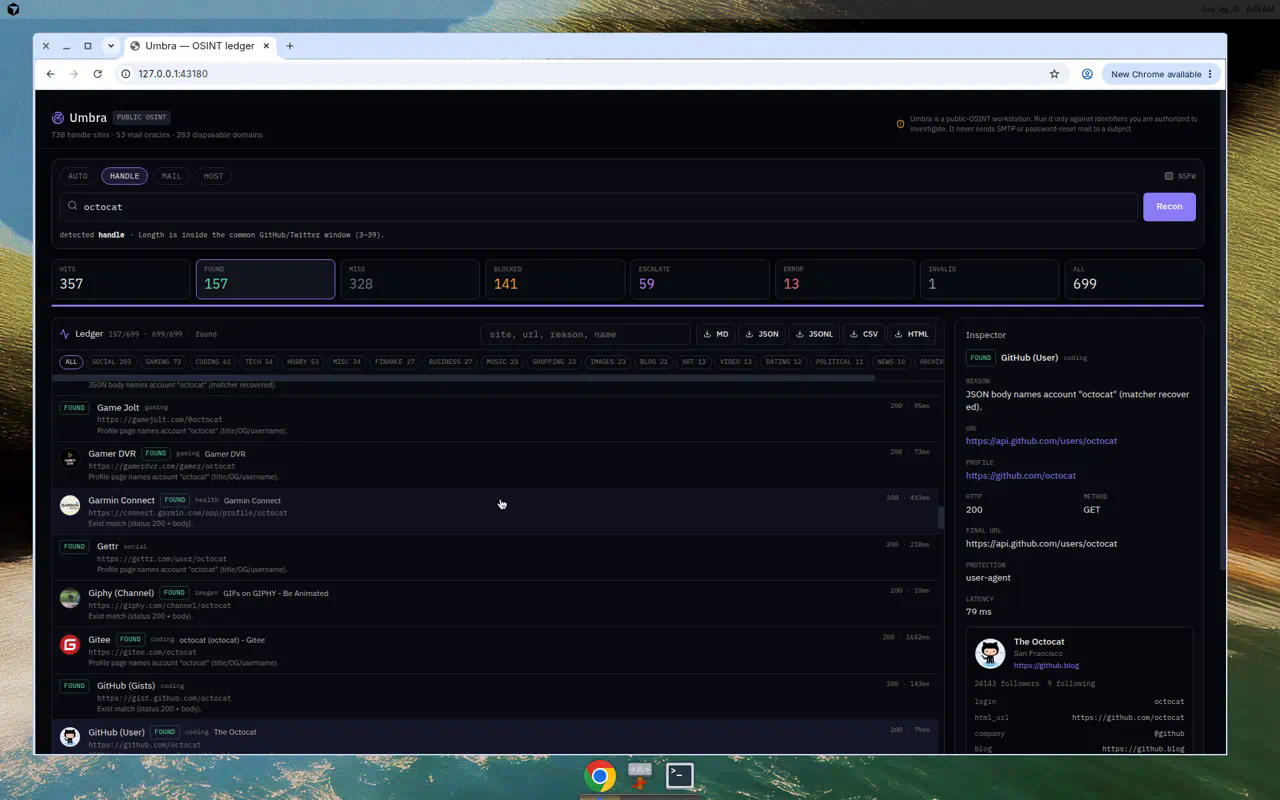
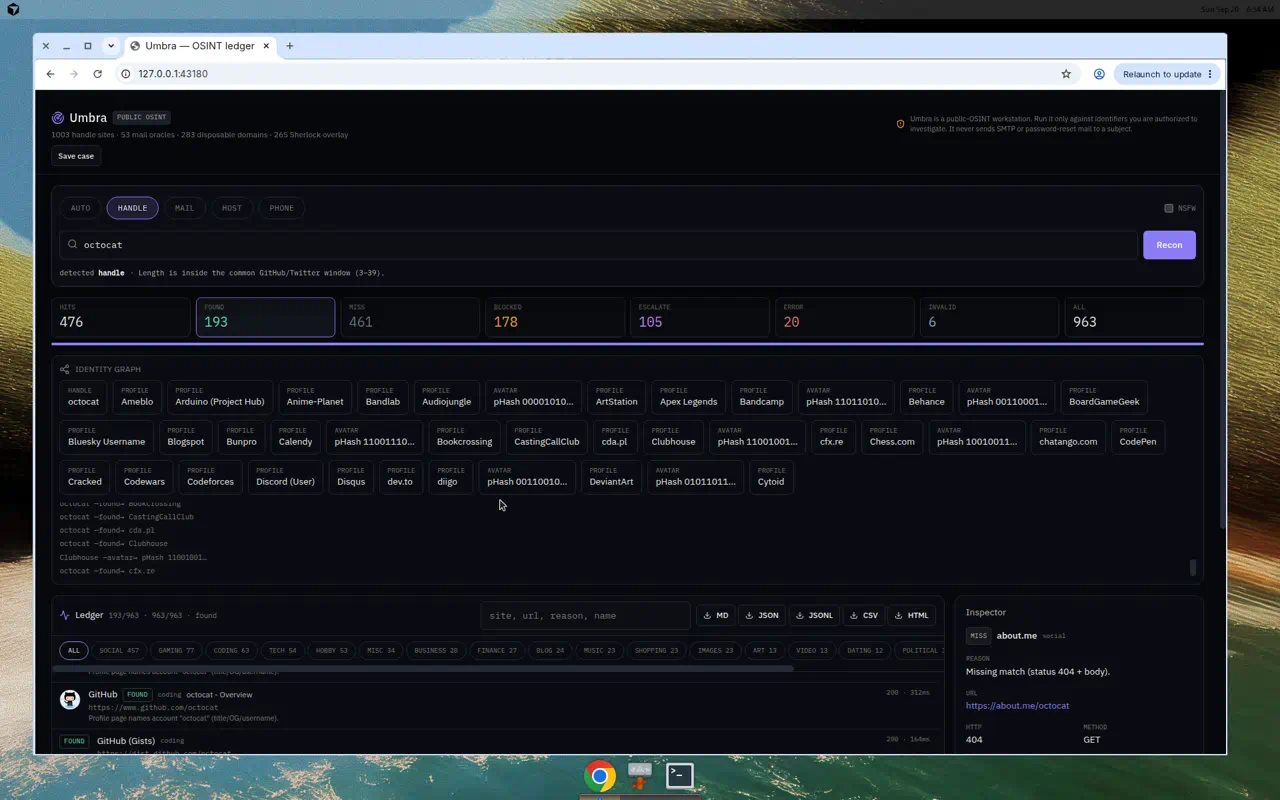
Add recon screenshots and correct phone ledger row count.
Local run: octocat 193 found / 461 miss / 178 blocked on 963 clearnet sites.
Phone, mail, host, and PWA mobile captures included for review.

diff --git a/server/phone.ts b/server/phone.ts
@@ -3,7 +3,7 @@ import type { CountryCode } from "libphonenumber-js/max";
 import type { LedgerRow, PhoneDossier } from "../shared/types.ts";
 import { fetchPublic } from "./http.ts";
 
-export const PHONE_LEDGER_COUNT = 5;
+export const PHONE_LEDGER_COUNT = 4;
 
 /** Public NANP NPA → region labels (numbering-plan data, not a live carrier dump). */
 const NANP_NPA: Record<string, string> = {

diff --git a/README.md b/README.md
@@ -47,7 +47,7 @@ Live console screenshots:
 ### First recon
 
 1. Accept the authorized-use gate.
-2. `octocat` in Auto/Handle — classified hits across **1003** sites (963 clearnet). GitHub should be **found** with avatar/bio/followers; matching avatars get a pHash cluster on the identity graph.
+2. `octocat` in Auto/Handle — classified hits across **1003** sites (963 clearnet). This upgrade local run: **193 found** / 461 miss / 178 blocked / 105 escalate on 963 clearnet (v1.1.0: 157 found / 326 miss / 140 blocked / 62 escalate on 699). GitHub is **found** with avatar; matching avatars show pHash nodes on the identity graph.
 3. `press@github.com` in Mail — dossier + silent oracles + **1-click pivots** to handle `press` and host `github.com`. HIBP stays off unless `HIBP_API_KEY` is set.
 4. `github.com` in Host — RDAP / DNS / cert SAN.
 5. `+14155552671` (or another number you are authorized to check) in Auto/Phone — E.164, region/type, optional carrier.
